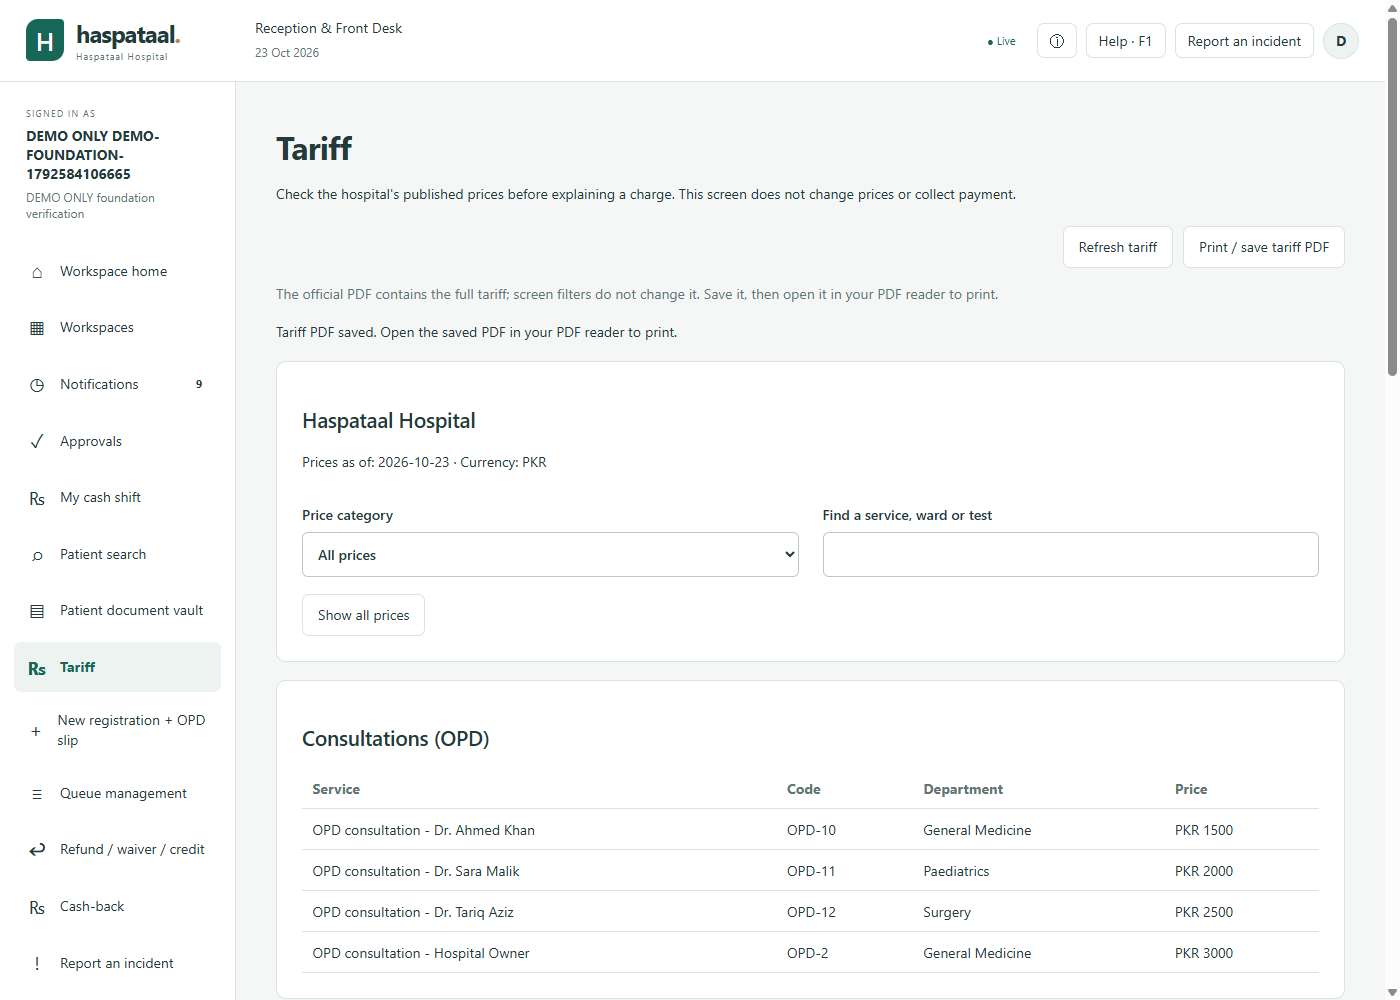
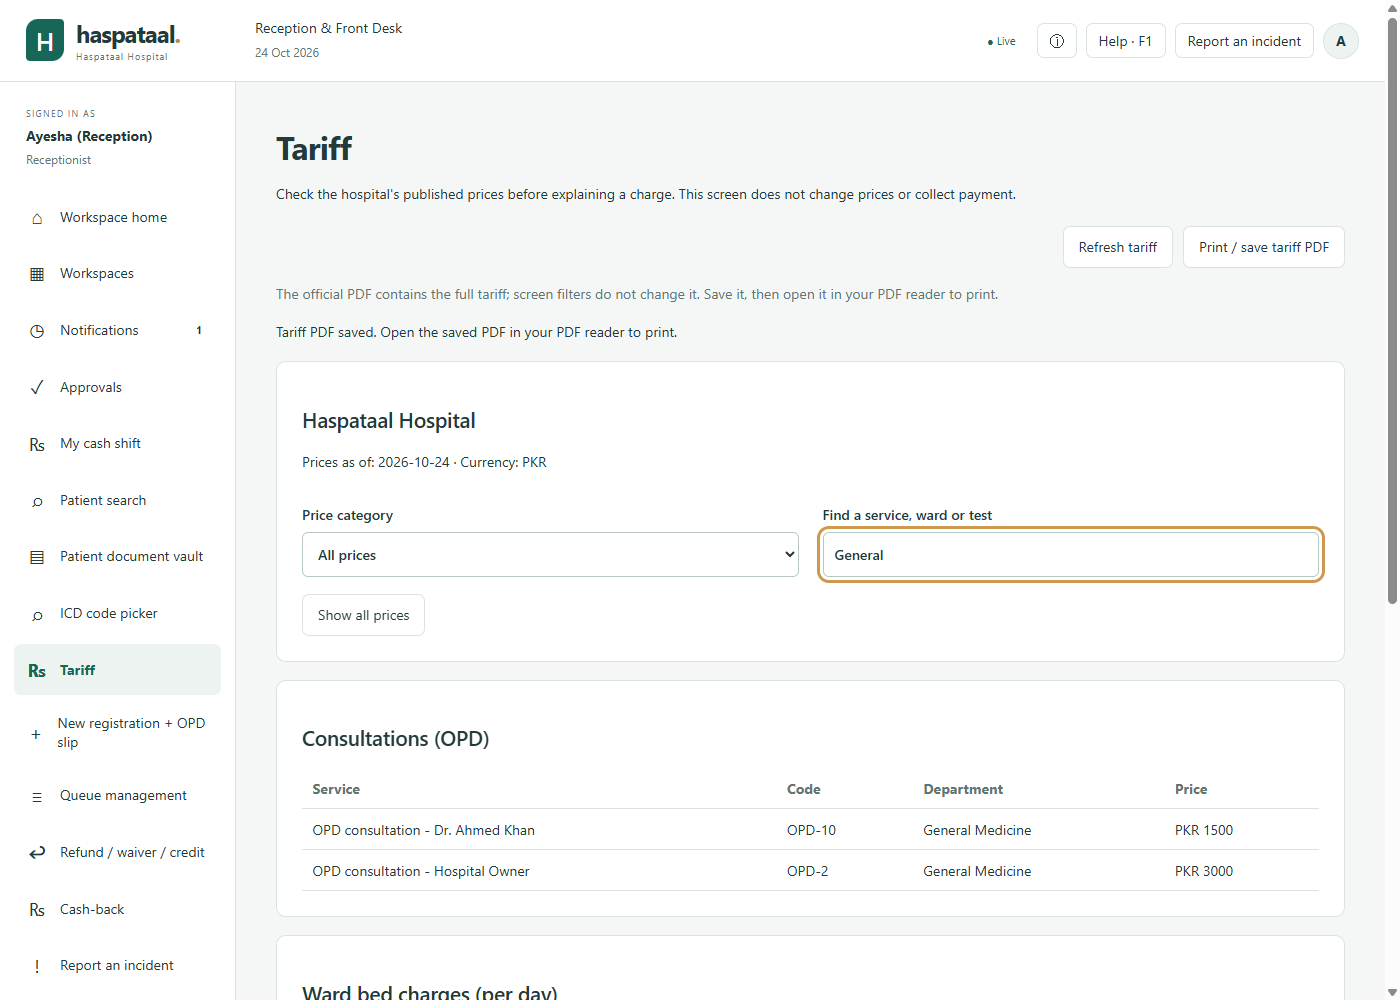
test: verify tariff display states, pdf download, f1 help and zoom

diff --git a/docs/PHASE2_REVIEW_STATUS_2026-10-24.md b/docs/PHASE2_REVIEW_STATUS_2026-10-24.md
@@ -24,7 +24,7 @@ Current source: e5dd135, renderer index-Cd4gDgdp.js. Build/help coverage and **7
 | Mandatory cash-back | Both refund and waiver-refund blocking prompts/confirmations; isolated drawers net zero | Physical review and remaining denied-drawer variants |
 | Outstanding dues | Cashier permission fix, separate Card AR collection, invoice/F1 read | Positive Owner write-off with active debt, full refusal matrix |
 | Patient document vault | Consent/Skip/reselect fix, separate uploads/download, lost201 original-key replay/one attachment | Camera hardware and remaining type/size/date/denied-upload matrix |
-| Tariff | Role navigation/read smoke | Fresh role-specific review of displayed services/prices |
+| Tariff | Role navigation/read smoke; fresh categories/empty state (q:states), PDF save (q:tested), contextual F1 (q:f1_help), and bounded 100-250% zoom (q:zoom) PASS | Fresh role-specific review of displayed services/prices and named human journey |
 | Doctor queue | Actual arrival/call; reason required, live top/highlighted handover and restore | Remaining reconnect/refusal variants and human workflow |
 | ICD picker | Real catalogue/code-only storage, diagnosis title readback | Full current catalogue/version/refusal plan and human terminology review |
 | Consultation | Server-selected Clinic guidance; consent switches, Final VCO/Declined, lost201 retry, VCO PDF | Actual Clinic422 on controlled Clinic setup, procedure gates and remaining events |
@@ -51,7 +51,7 @@ Original keys/receipts and failed-test limitations are in the dated evidence fil
 
 ## Progress review
 
-110–119 accepted at this continuation start. New 120 Registration, 121 Post-consult waiver, 122 Waiver cash-back, 123 Lab cancellation, 124 Doctor re-route, 125 Consultation, 126 Upload recovery, and 127 E-Prescription handover are **awaiting human review on /docs -> My progress**, together with 109 Cash shift. Only tested new items were proposed; full-plan and human gates were not claimed. Check live feedback before any further proposal.
+110–119 accepted at this continuation start. New 120 Registration, 121 Post-consult waiver, 122 Waiver cash-back, 123 Lab cancellation, 124 Doctor re-route, 125 Consultation, 126 Upload recovery, 127 E-Prescription handover, and 128 Tariff quality are **awaiting human review on /docs -> My progress**, together with 109 Cash shift. Only tested new items were proposed; full-plan and human gates were not claimed. Check live feedback before any further proposal.
 
 ## New synthetic records from this continuation
 

diff --git a/handoff.md b/handoff.md
@@ -78,4 +78,15 @@ Screen 24 (`eprescription`) Outpatient Handover check PASS:
 - Preferences restored and signed out cleanly.
 - Durable evidence: `docs/eprescription-handover-evidence-2026-10-24.json`.
 - Proposal #127 submitted and verified Pending: **awaiting human review on /docs -> My progress**. Items claimed: `ep:POST /prescriptions/{prescription_id}/handover`, `rule:7874298bee`, `rule:116b498e61`, `rule:5a13c8d3a4`, `rule:a0b954034e`, `rule:72ad58bc73`, `q:writes`, `q:f1_help`.
-- Next concrete action: Continue remaining Phase 2 screens in dependency order. Next screen: `tariff_display` (Screen 20) or `icd_picker` (Screen 22) quality gates (bounded zoom 100–250%, states, role FAQ, permissions) or `queue_management` remaining rules/events. No running commands or uncertain writes.
+
+Screen 20 (`tariff_display`) Quality check PASS:
+- `node scripts/tariff-quality-check.mjs` real DEV Electron check PASS.
+- Loading, empty, and reset states (`q:states`): live prices, hospital header, currency, and as_of date displayed; category filters (All, Wards, Lab) filter rows; non-matching search displays `<Empty>` guidance message; "Show all prices" button resets query and category and restores tables.
+- Test plan passed (`q:tested`): "Refresh tariff" executes on-demand `GET /tariff` reload; "Print / save tariff PDF" downloads `/tariff/pdf` via native bridge, verified valid `%PDF-` file header.
+- Contextual F1 help (`q:f1_help`): F1 on search input opens Tariff handbook page, restores focus and preserves draft value.
+- Bounded zoom (`q:zoom`): 100-250% bounded zoom in Light and DarkHighContrast themes, English and Urdu without overflow.
+- Read-only inspection; zero business writes.
+- Preferences restored and signed out cleanly.
+- Durable evidence: `docs/tariff-quality-evidence-2026-10-24.json`.
+- Proposal #128 submitted and verified Pending: **awaiting human review on /docs -> My progress**. Items claimed: `q:states`, `q:tested`, `q:f1_help`, `q:zoom`.
+- Next concrete action: Continue remaining Phase 2 screens in dependency order. Next screen: `icd_picker` (Screen 22) quality verification (`q:permissions`, `q:f1_help`, `q:zoom`, `q:tested`). No running commands or uncertain writes.
